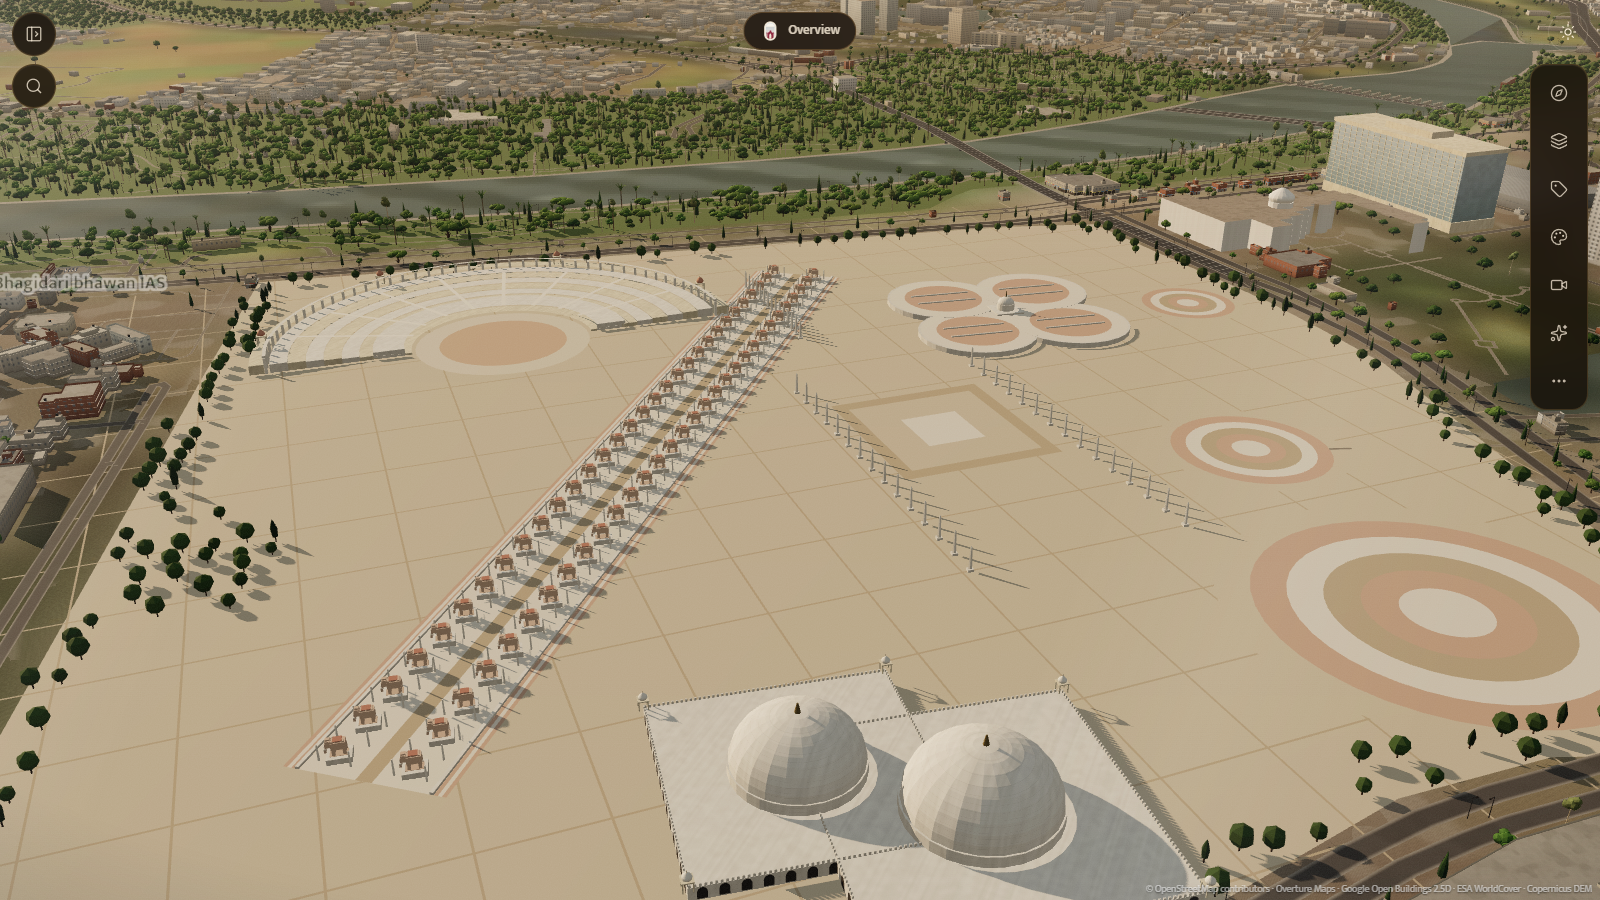
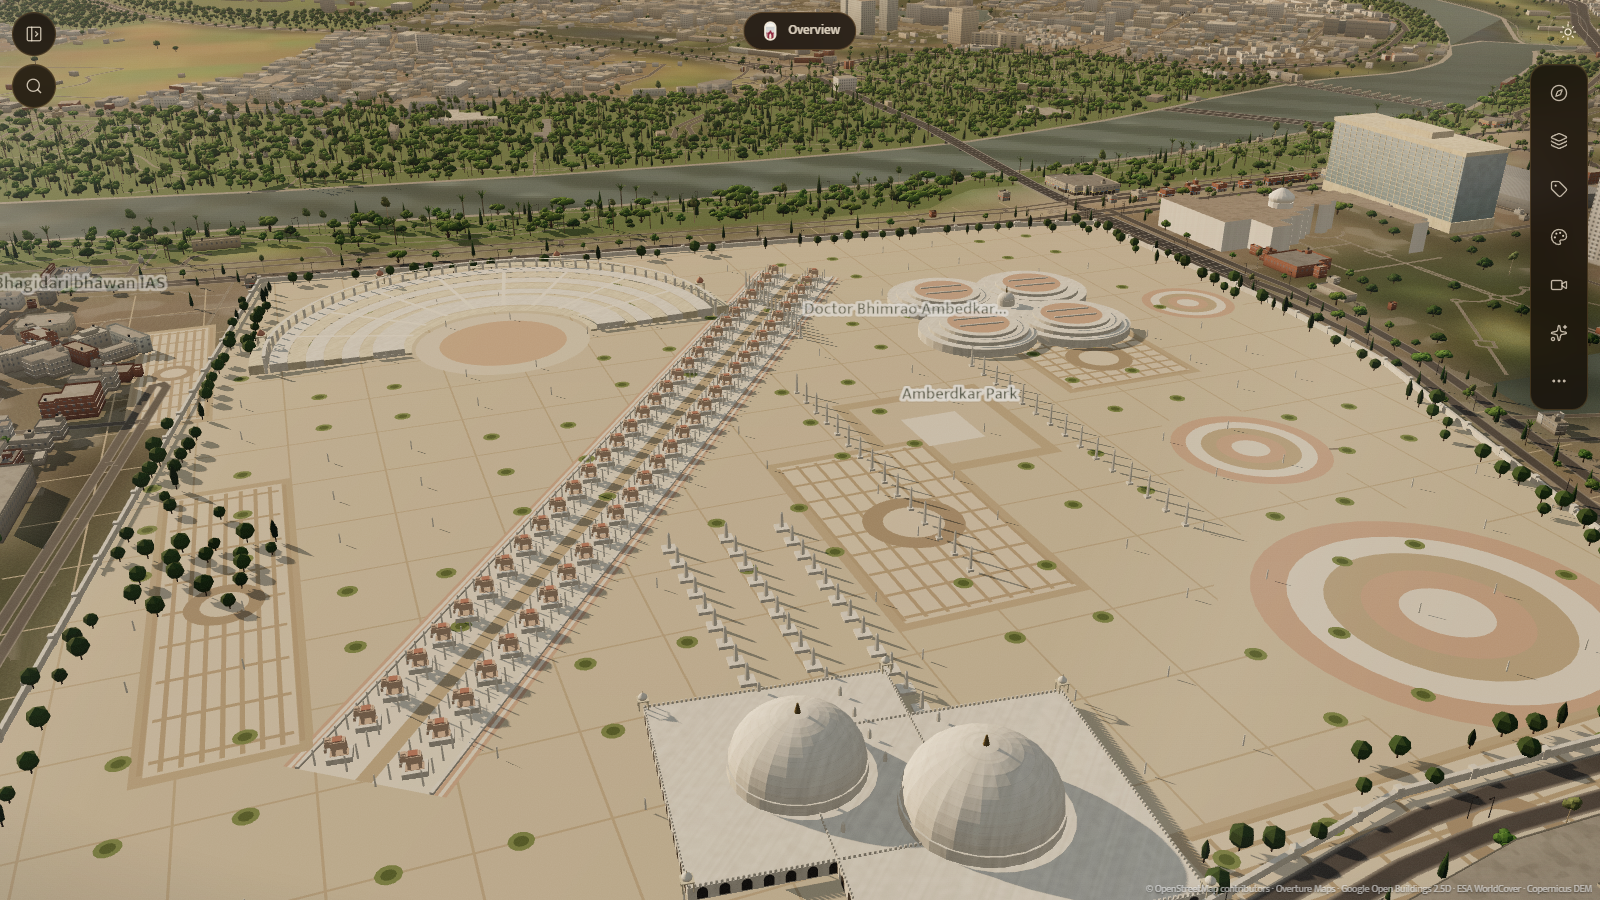
feat(3d): Ambedkar raised cloverleaf petals, boundary wall, plaza fill, night ground glow

diff --git a/src/city/landmarks.ts b/src/city/landmarks.ts
@@ -485,31 +485,29 @@ function ambedkarMemorial(k: Kit, g: Grounds, s: LandmarkSite): void {
   quad(PALE, 0.49, 0.40, 0.05, 0.05, 0.12);
   quad(WHITE, 0.49, 0.40, 0.022, 0.022, 0.13);
 
-  // 4. Cloverleaf platform with a small stupa.
+  // 4. Cloverleaf platform with a small stupa: four RAISED petals (stepped white mounds with a
+  //    pink inlaid crown and an upstand rim), joined by a raised central block under the stupa.
   {
     const [cu, cv] = P(0.31, 0.24);
     const R = 0.09 * W;
+    const circ = (u: number, v: number, r: number): number[][] => {
+      const o: number[][] = [];
+      for (let t = 0; t < 32; t++) { const q = (t / 32) * Math.PI * 2; const w = k.w([u + Math.cos(q) * r, 0, v + Math.sin(q) * r]); o.push([w[0], w[2]]); }
+      return o;
+    };
     for (let i = 0; i < 4; i++) {
       const a = (i / 4) * Math.PI * 2 + Math.PI / 4;
       const lu = cu + Math.cos(a) * R * 0.62, lv = cv + Math.sin(a) * R * 0.62;
-      const ring2: number[][] = [];
-      for (let t = 0; t < 28; t++) { const q = (t / 28) * Math.PI * 2; const w = k.w([lu + Math.cos(q) * R * 0.52, 0, lv + Math.sin(q) * R * 0.52]); ring2.push([w[0], w[2]]); }
-      k.extrudeWorldRing(ring2, 0, 3.2, S.LIME, S.LIME);
-      // White sculpted surface with a pink inlaid band and a raised rim (no concentric rings).
-      const r3: number[][] = [], r4: number[][] = [];
-      for (let t = 0; t < 28; t++) {
-        const q = (t / 28) * Math.PI * 2;
-        const w = k.w([lu + Math.cos(q) * R * 0.5, 0, lv + Math.sin(q) * R * 0.5]); r3.push([w[0], w[2]]);
-        const w2 = k.w([lu + Math.cos(q) * R * 0.36, 0, lv + Math.sin(q) * R * 0.36]); r4.push([w2[0], w2[2]]);
-      }
-      g.color(WHITE).polyWorld(r3, 3.25);
-      g.color(PINK).polyWorld(r4, 3.3);
-      for (const sg of [-1, 1]) k.box(lu - R * 0.28, lu + R * 0.28, 3.3, 4.1, lv + sg * R * 0.1 - 0.5, lv + sg * R * 0.1 + 0.5, S.LIME);
+      k.extrudeWorldRing(circ(lu, lv, R * 0.52), 0, 5.0, S.LIME, S.LIME);       // base mass
+      k.extrudeWorldRing(circ(lu, lv, R * 0.44), 5.0, 7.2, S.LIME, S.LIME);     // second step
+      k.extrudeWorldRing(circ(lu, lv, R * 0.34), 7.2, 9.0, S.LIME, S.LIME);     // crown
+      g.color(PINK).polyWorld(circ(lu, lv, R * 0.27), 9.05);
+      for (const sg of [-1, 1]) k.box(lu - R * 0.2, lu + R * 0.2, 9.0, 9.9, lv + sg * R * 0.08 - 0.5, lv + sg * R * 0.08 + 0.5, S.LIME);
     }
-    k.box(cu - 9, cu + 9, 0, 4, cv - 9, cv + 9, S.LIME);
-    k.cylinder(cu, cv, 5.5, 5.5, 4, 8, 20, S.LIME);
-    k.hemi(cu, cv, 5.2, 8, S.LIME, 0.75);
-    k.cylinder(cu, cv, 0.5, 0.15, 12, 16, 8, S.GILT);
+    k.extrudeWorldRing(circ(cu, cv, R * 0.34), 0, 7, S.LIME, S.LIME);           // raised joining block
+    k.cylinder(cu, cv, 5.5, 5.5, 7, 11, 20, S.LIME);
+    k.hemi(cu, cv, 5.2, 11, S.LIME, 0.75);
+    k.cylinder(cu, cv, 0.5, 0.15, 15, 19, 8, S.GILT);
   }
 
   // 5. Two white domed halls (SE).
@@ -598,7 +596,7 @@ function ambedkarMemorial(k: Kit, g: Grounds, s: LandmarkSite): void {
       }
     }
     // Lamp columns between the elephants and on the outer edges.
-    const nL = Math.floor(len / 11);
+    const nL = Math.floor(len / 6.5);
     for (let i = 0; i < nL; i++) {
       const t = (i + 0.5) / nL;
       for (const off of [-20, -8, 8, 20]) {
@@ -629,10 +627,67 @@ function ambedkarMemorial(k: Kit, g: Grounds, s: LandmarkSite): void {
     }
   }
 
+  // 7c. Fill the plazas (round 3): patterned paving panels with radial inlay, a grid of
+  //     pedestal pillars beside the amphitheatre (as in the dusk drone view), planter beds,
+  //     lamp bollards on a regular grid and long colonnaded halls along the edges.
+  const IN2 = 0xb4a084, DARKP = 0xa8957c;
+  for (const [fx, fy, hx, hy] of [[0.60, 0.48, 0.10, 0.06], [0.42, 0.22, 0.05, 0.06], [0.55, 0.88, 0.14, 0.04], [0.20, 0.92, 0.10, 0.03], [0.92, 0.36, 0.05, 0.14]] as Array<[number, number, number, number]>) {
+    quad(INLAY, fx, fy, hx, hy, 0.12);
+    quad(0xd8cab3, fx, fy, hx - 0.006, hy - 0.006, 0.13);
+    for (let i = -4; i <= 4; i++) { quad(IN2, fx + (hx * i) / 4.5, fy, 0.0012, hy - 0.008, 0.14); quad(IN2, fx, fy + (hy * i) / 4.5, hx - 0.008, 0.0012, 0.14); }
+    const [cu, cv] = P(fx, fy);
+    g.color(DARKP).disc(cu, cv, Math.min(hx, hy) * W * 0.5, 0.15, 24);
+    g.color(0xd8cab3).disc(cu, cv, Math.min(hx, hy) * W * 0.3, 0.16, 24);
+  }
+  // Pedestal-pillar grid beside the amphitheatre: 3 x 16 blocks, each with a short column.
+  for (let i = 0; i < 16; i++) for (let j = 0; j < 3; j++) {
+    const [u, v] = P(0.58 + i * 0.0165, 0.56 + j * 0.036);
+    if (!inside(u, v)) continue;
+    k.box(u - 3, u + 3, 0, 1.4, v - 3, v + 3, S.LIME);
+    k.lathe(u, v, [[1.0, 1.4], [0.6, 8], [0, 9]], 6, S.LIME, 0);
+  }
+  // Planter beds and lamp bollards on a regular grid across the open plaza.
+  for (let fx = 0.12; fx < 0.95; fx += 0.055) for (let fy = 0.10; fy < 0.95; fy += 0.055) {
+    const [u, v] = P(fx, fy);
+    if (!inside(u, v)) continue;
+    if (((Math.round(fx * 100) + Math.round(fy * 100)) & 1) === 0) { g.color(0x7e8c55).disc(u, v, 4.2, 0.17, 12); g.color(0x5c6c3a).disc(u, v, 2.4, 0.19, 10); }
+    else k.cylinder(u, v, 0.35, 0.25, 0, 4.8, 6, S.LIME);
+  }
+  // Long colonnaded halls along the north-east and south edges.
+  for (const [fx0, fy0, fx1, fy1] of [[0.50, 0.965, 0.90, 0.93], [0.90, 0.60, 0.95, 0.80]] as Array<[number, number, number, number]>) {
+    const [a0, b0] = P(fx0, fy0), [a1, b1] = P(fx1, fy1);
+    const hl = Math.hypot(a1 - a0, b1 - b0), hx2 = (a1 - a0) / hl, hy2 = (b1 - b0) / hl, qx = -hy2 * 7, qy = hx2 * 7;
+    const wq = (x: number, y: number): number[] => { const q = k.w([x, 0, y]); return [q[0], q[2]]; };
+    if (inside(a0, b0) && inside(a1, b1) && inside(a0 + qx, b0 + qy) && inside(a1 + qx, b1 + qy)) {
+      k.extrudeWorldRing([wq(a0, b0), wq(a1, b1), wq(a1 + qx, b1 + qy), wq(a0 + qx, b0 + qy)], 0, 6.5, S.LIME, S.LIME);
+      for (let d = 0; d <= hl; d += 6) k.cylinder(a0 + hx2 * d - qx * 0.05, b0 + hy2 * d - qy * 0.05, 0.55, 0.5, 0, 6.5, 6, S.STONE);
+    }
+  }
+
   // 8. Small triangular pool (SE corner).
   {
     const tri: number[][] = [P(0.93, 0.86), P(0.88, 0.95), P(0.97, 0.95)].map(([u, v]) => { const q = k.w([u, 0, v]); return [q[0], q[2]]; });
     g.color(POOL).polyWorld(tri, 0.12);
+  }
+
+  // 8b. Boundary wall around the whole precinct, pale sandstone like the paving, with pier caps
+  //     every ~30 m. Each edge is a thin slab on the inside of the precinct outline.
+  {
+    const cx = loc.reduce((a2, q) => a2 + q[0], 0) / loc.length, cz = loc.reduce((a2, q) => a2 + q[1], 0) / loc.length;
+    for (let i = 0; i < loc.length; i++) {
+      const [ax, az] = loc[i], [bx, bz] = loc[(i + 1) % loc.length];
+      const dx = bx - ax, dz = bz - az, len = Math.hypot(dx, dz);
+      if (len < 2) continue;
+      let nx = -dz / len, nz = dx / len;
+      if ((cx - ax) * nx + (cz - az) * nz < 0) { nx = -nx; nz = -nz; }   // point inward
+      const T = 1.6;
+      const wq = (x: number, y: number): number[] => { const q = k.w([x, 0, y]); return [q[0], q[2]]; };
+      k.extrudeWorldRing([wq(ax, az), wq(bx, bz), wq(bx + nx * T, bz + nz * T), wq(ax + nx * T, az + nz * T)], 0, 3.2, S.LIME, S.LIME);
+      for (let d = 0; d <= len; d += 30) {
+        const px = ax + (dx / len) * d + nx * T * 0.5, pz = az + (dz / len) * d + nz * T * 0.5;
+        k.box(px - 1.2, px + 1.2, 0, 4.4, pz - 1.2, pz + 1.2, S.LIME);
+      }
+    }
   }
 
   // 9. Trees: narrow edge strips and one grove, never over the plazas.
@@ -1036,7 +1091,7 @@ export function buildLandmarkLayer(material: THREE.Material): LandmarkLayer {
   return {
     group,
     update: (t) => flag?.update(t),
-    setNight: (n) => { gmat.color.setHex(n ? 0x5a5650 : 0xffffff); },
+    setNight: (n) => { gmat.color.setHex(n ? 0x5a5650 : 0xffffff); gmat.emissive.setHex(n ? 0x1c130b : 0x000000); },
   };
 }
 

diff --git a/docs/3d-revamp/ROUND_3_REPORT.md b/docs/3d-revamp/ROUND_3_REPORT.md
@@ -134,3 +134,9 @@ Changes are in `buildingMaterial.ts` and `roadMaterial.ts`. Checked in `night_ha
 - **References archived:** the two Ambedkar views, plus the Bara Imambara and Chhota Imambara/Picture Gallery top-down views, are copied to `references/round-3/parks/` and `husainabad/` and listed in the manifest. The latest dusk drone shot of Ambedkar was only sent in chat with no file on disk, so it is described in the manifest but not copied.
 - **Changes:** a more detailed elephant statue (domed head, ears, two-part trunk, tusks, tail, blanket) in pale pink sandstone instead of brown; the four-lobed platform is now white lobes with a pink inlay and rim (no concentric rings); the domed halls have arcaded walls, corner kiosks and a drum; rows of memorial pillars and a colonnaded north gallery; the amphitheatre gained a heavy outer wall ring with four corner kiosks and an inner raised seating bowl.
 - **Still not matching the references:** at night the paved plazas stay dark because ground colours are not emissive (only the structures catch the amber floodlight), whereas the real site is lit across its plazas; the avenue is still a regular two-row strip (the real one has far more repeated pillars and is aligned along the amphitheatre's flat edge); the wall ring is barely distinguishable from the tiers at normal altitude; fine paving patterns are absent. All positions are by eye.
+
+## Update: Ambedkar emptiness, raised platform, boundary wall
+- **Raised petals:** the four-lobed platform is now four stepped white mounds (about 9 m) with a pink inlaid crown and rim, joined by a raised central block (7 m) under the stupa, instead of a flat disc.
+- **Boundary wall:** a 3.2 m pale sandstone wall (same ivory plaster surface as the other stone) follows the whole precinct outline, with 4.4 m pier caps about every 30 m. There are no gate openings yet.
+- **Less empty:** five patterned paving panels with inlaid grids and medallions, a 3 x 16 pedestal-pillar grid, planter beds and lamp bollards on a regular grid, two long colonnaded halls on the edges, and denser lamp columns along the avenue. At night the plaza ground now carries a faint warm glow.
+- **Limits:** the pedestal grid and avenue still cross each other in one view angle, the filler pattern is regular and generic (not copied from the real paving), the wall ignores the roads' entrances and the real gates, and the night glow is a flat tint rather than real lighting. Not checked at close range.
